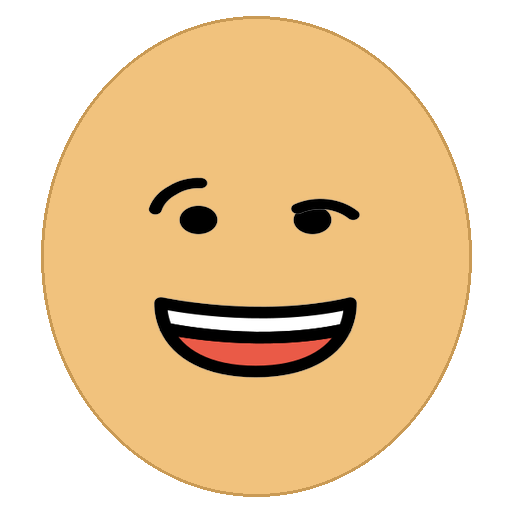
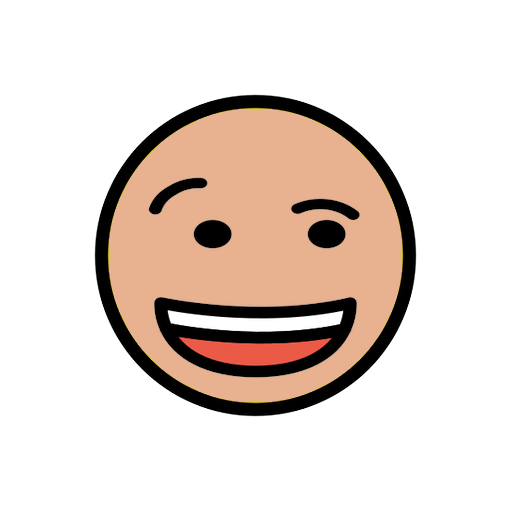
Replace Pillow-drawn face shapes with extracted OpenMoji circle asset recolored to skin tone.    Fix eye_type always predicting squint by using direct eye aspect ratio thresholds (< 0.27 squint, 0.27-0.40 round, > 0.40 wide) instead of the classifier since we don't have enough emoji eye options.

diff --git a/src/compose.py b/src/compose.py
@@ -74,59 +74,44 @@ class EmojiComposer:
 
         return None
 
-    def _draw_face_shape(self, face_shape: str, skin_tone_rgb: tuple[int, int, int]) -> Image.Image:
-        """Draw a parameterized face shape filled with skin tone."""
-        canvas = Image.new("RGBA", (CANVAS_SIZE, CANVAS_SIZE), (0, 0, 0, 0))
-        draw = ImageDraw.Draw(canvas)
-
-        cx, cy = CANVAS_SIZE // 2, CANVAS_SIZE // 2
-        outline_rgb = tuple(max(0, c - 40) for c in skin_tone_rgb)
-        fill = (*skin_tone_rgb, 255)
-        outline = (*outline_rgb, 255)
-
-        if face_shape == "round":
+    def _make_face(self, skin_tone_rgb: tuple[int, int, int]) -> Image.Image:
+        """Load an OpenMoji circle face asset and recolor yellow fill to skin tone."""
+        face_asset = self._pick_asset("face", "round")
+        if face_asset is None:
+            # Fallback: plain circle
+            canvas = Image.new("RGBA", (CANVAS_SIZE, CANVAS_SIZE), (0, 0, 0, 0))
+            draw = ImageDraw.Draw(canvas)
             r = int(CANVAS_SIZE * 0.45)
-            draw.ellipse([cx - r, cy - r, cx + r, cy + r], fill=fill, outline=outline, width=3)
+            cx, cy = CANVAS_SIZE // 2, CANVAS_SIZE // 2
+            fill = (*skin_tone_rgb, 255)
+            draw.ellipse([cx - r, cy - r, cx + r, cy + r], fill=fill, outline=(0, 0, 0, 255), width=3)
+            return canvas
 
-        elif face_shape == "oval":
-            rw = int(CANVAS_SIZE * 0.42)
-            rh = int(CANVAS_SIZE * 0.47)
-            draw.ellipse([cx - rw, cy - rh, cx + rw, cy + rh], fill=fill, outline=outline, width=3)
+        face_img = Image.open(face_asset["png_path"]).convert("RGBA")
+        info = face_asset["info"]
 
-        elif face_shape == "square":
-            half = int(CANVAS_SIZE * 0.42)
-            r = 40
-            draw.rounded_rectangle([cx - half, cy - half, cx + half, cy + half],
-                                   radius=r, fill=fill, outline=outline, width=3)
+        # Resize to fill canvas at the asset's original position
+        x1 = int(info["bbox_x1_norm"] * CANVAS_SIZE)
+        y1 = int(info["bbox_y1_norm"] * CANVAS_SIZE)
+        x2 = int(info["bbox_x2_norm"] * CANVAS_SIZE)
+        y2 = int(info["bbox_y2_norm"] * CANVAS_SIZE)
+        face_img = face_img.resize((x2 - x1, y2 - y1), Image.LANCZOS)
 
-        elif face_shape == "heart":
-            rw = int(CANVAS_SIZE * 0.44)
-            rh = int(CANVAS_SIZE * 0.47)
-            # Wider top, narrower bottom via polygon + ellipse combo
-            draw.ellipse([cx - rw, cy - rh, cx + rw, cy + int(rh * 0.3)], fill=fill, outline=None)
-            # Chin triangle
-            points = [
-                (cx - int(rw * 0.75), cy),
-                (cx, cy + rh),
-                (cx + int(rw * 0.75), cy),
-            ]
-            draw.polygon(points, fill=fill, outline=None)
-            # Outline
-            draw.ellipse([cx - rw, cy - rh, cx + rw, cy + int(rh * 0.3)], fill=None, outline=outline, width=3)
-            draw.line([(cx - int(rw * 0.75), cy), (cx, cy + rh)], fill=outline, width=3)
-            draw.line([(cx + int(rw * 0.75), cy), (cx, cy + rh)], fill=outline, width=3)
+        # Recolor: replace yellow-ish pixels with skin tone, keep dark outline
+        arr = np.array(face_img, dtype=np.float32)
+        r, g, b, a = arr[:, :, 0], arr[:, :, 1], arr[:, :, 2], arr[:, :, 3]
 
-        elif face_shape == "oblong":
-            rw = int(CANVAS_SIZE * 0.38)
-            rh = int(CANVAS_SIZE * 0.48)
-            draw.ellipse([cx - rw, cy - rh, cx + rw, cy + rh], fill=fill, outline=outline, width=3)
+        # Yellow pixels: high R, high G, low B, opaque
+        is_yellow = (r > 180) & (g > 180) & (b < 120) & (a > 128)
 
-        else:
-            # Default to oval
-            rw = int(CANVAS_SIZE * 0.42)
-            rh = int(CANVAS_SIZE * 0.47)
-            draw.ellipse([cx - rw, cy - rh, cx + rw, cy + rh], fill=fill, outline=outline, width=3)
+        arr[is_yellow, 0] = skin_tone_rgb[0]
+        arr[is_yellow, 1] = skin_tone_rgb[1]
+        arr[is_yellow, 2] = skin_tone_rgb[2]
 
+        recolored = Image.fromarray(arr.astype(np.uint8), "RGBA")
+
+        canvas = Image.new("RGBA", (CANVAS_SIZE, CANVAS_SIZE), (0, 0, 0, 0))
+        canvas.paste(recolored, (x1, y1), recolored)
         return canvas
 
     def _paste_part(self, canvas: Image.Image, asset: dict) -> Image.Image:
@@ -155,10 +140,8 @@ class EmojiComposer:
         components: {"face_shape": "oval", "eye_type": "round", "mouth_type": "smile", "brow_type": "raised", ...}
         skin_tone_rgb: RGB tuple for face fill color
         """
-        face_shape = components.get("face_shape", "oval")
-
-        # 1. Draw face shape
-        canvas = self._draw_face_shape(face_shape, skin_tone_rgb)
+        # 1. Face circle recolored to skin tone
+        canvas = self._make_face(skin_tone_rgb)
 
         # 2. Layer parts in order: mouth, eyes, eyebrows (back to front)
         part_order = [
@@ -177,7 +160,6 @@ class EmojiComposer:
 
 def main() -> None:
     parser = argparse.ArgumentParser(description="Compose an emoji from parts.")
-    parser.add_argument("--face_shape", default="oval", choices=["oval", "round", "square", "heart", "oblong"])
     parser.add_argument("--eye_type", default="round")
     parser.add_argument("--mouth_type", default="smile")
     parser.add_argument("--brow_type", default="flat")
@@ -190,7 +172,6 @@ def main() -> None:
 
     composer = EmojiComposer(args.assets_dir)
     components = {
-        "face_shape": args.face_shape,
         "eye_type": args.eye_type,
         "mouth_type": args.mouth_type,
         "brow_type": args.brow_type,

diff --git a/src/pipeline.py b/src/pipeline.py
@@ -66,6 +66,15 @@ def generate_emoji(
         y_pred = clf.predict(X)[0]
         predictions[category] = le.inverse_transform([y_pred])[0]
 
+    # Override eye_type with direct thresholds (classifier is weak due to noisy labels)
+    avg_eye_aspect = (features["eye_aspect_ratio_left"] + features["eye_aspect_ratio_right"]) / 2
+    if avg_eye_aspect < 0.27:
+        predictions["eye_type"] = "squint"
+    elif avg_eye_aspect > 0.40:
+        predictions["eye_type"] = "wide"
+    else:
+        predictions["eye_type"] = "round"
+
     # 5. Compose emoji — use actual sampled skin color for best match
     composer = EmojiComposer(assets_dir)
     emoji_img = composer.compose(predictions, skin.mean_rgb)
